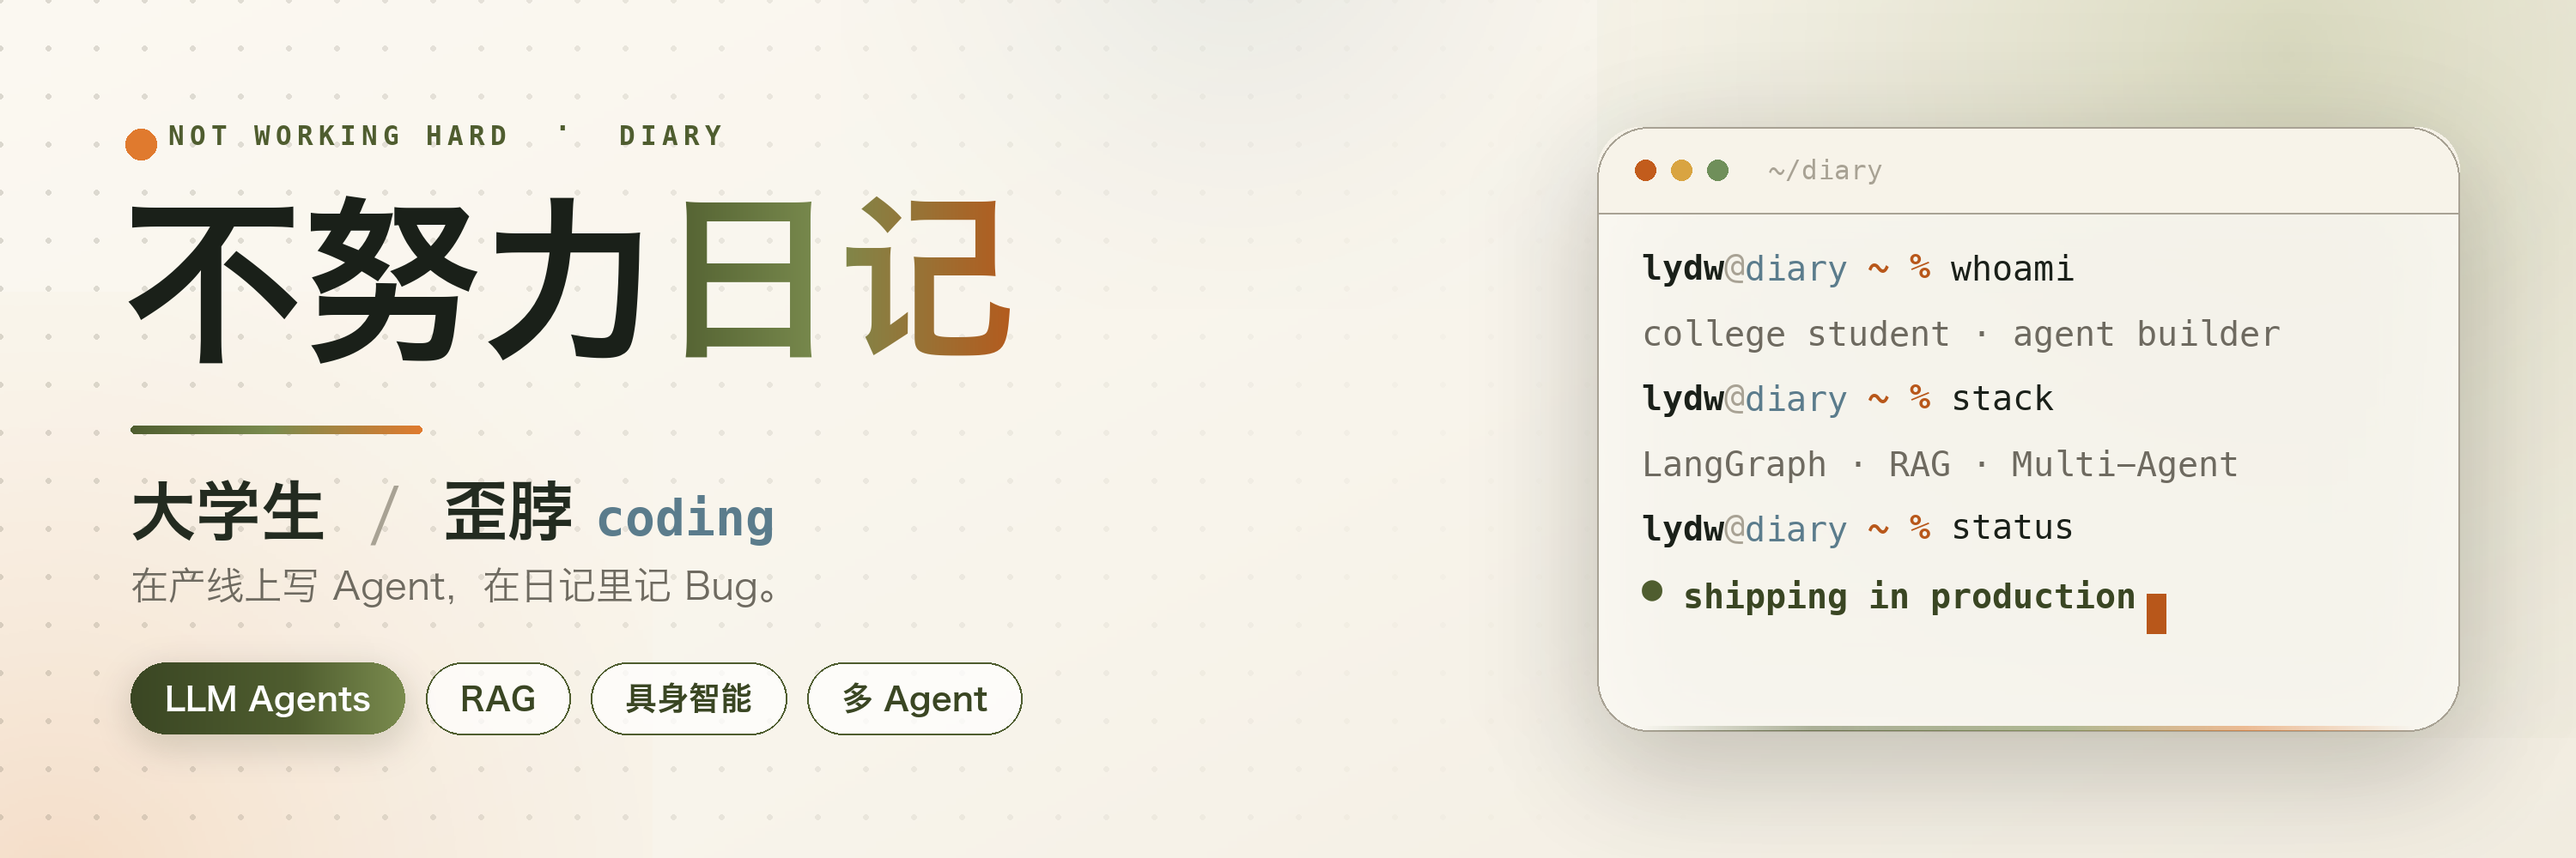
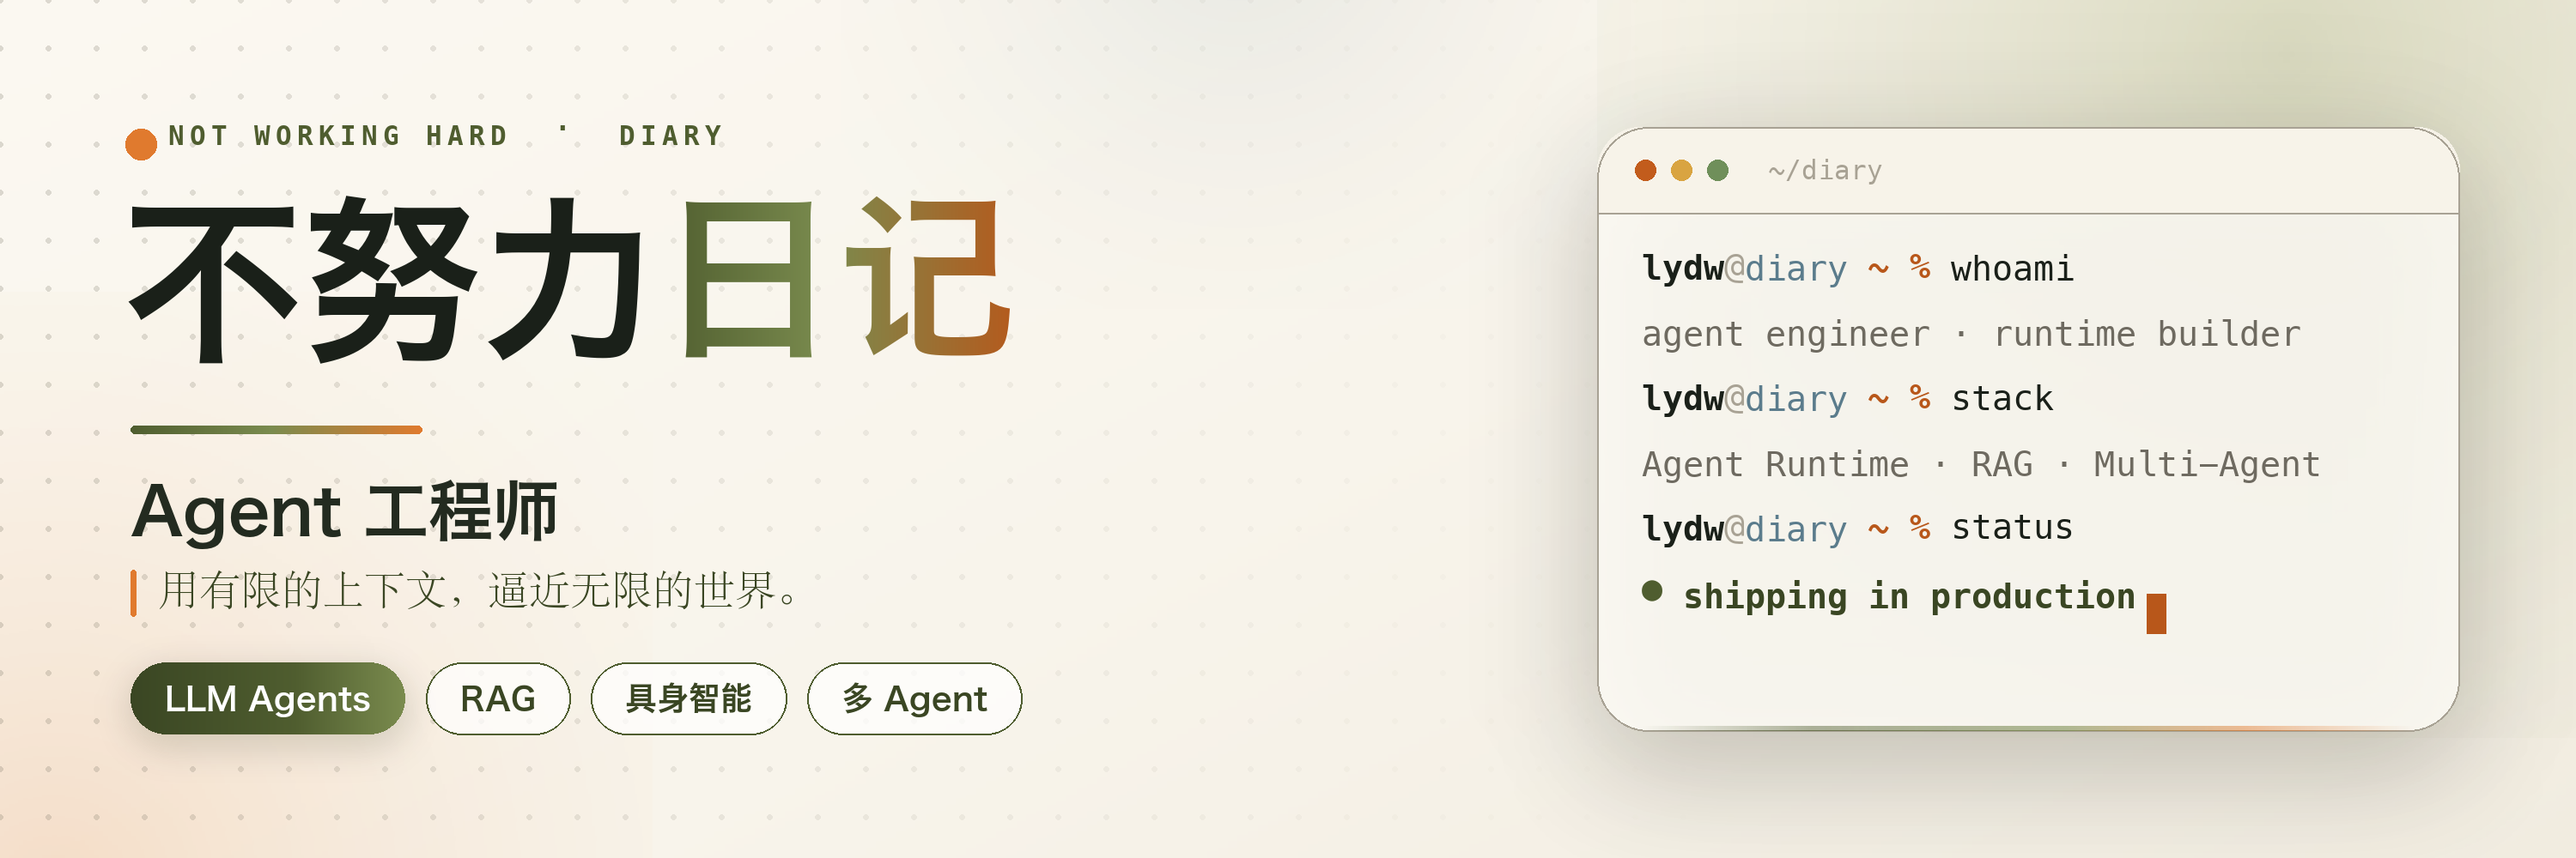
1

Changed region(s): [[0.031, 0.558, 0.31, 0.713], [0.62, 0.527, 0.899, 0.558], [0.62, 0.372, 0.899, 0.403]]

diff --git a/README.md b/README.md
@@ -1,21 +1,21 @@
 <div align="center">
-  <img src="./assets/banner.png" alt="不努力日记 · 大学生歪脖 coding" width="100%" />
+  <img src="./assets/banner.png" alt="不努力日记 · 用有限的上下文，逼近无限的世界" width="100%" />
 </div>
 
 <div align="center">
 
 ### 你好，我是不努力日记 👋
 
-大学生 · 歪脖 coding　|　在产线上写 Agent，在日记里记 Bug
+**Agent 工程师**　|　用有限的上下文，逼近无限的世界。
 
 </div>
 
-- 🔭 **现在在做**：生产级 LLM Agent / RAG / 多智能体编排
+- 🔭 **现在在做**：Agent Runtime · 长任务可靠性 · 多智能体编排
 - 🏭 **两段产线实战**：🤖 具身智能银行网点机器人（广电运通 GRG）× 🚗 商用车主动安全多 Agent 平台（魔视智能）
 - 🧠 **正在做**：LocalDev Agent · 三层上下文压缩 · Human-in-the-Loop
 - 📄 **一篇论文**：Diff-Ensemble，ACM CCF-A 在审
 
-我关心的是：**Agent 怎么在真实业务里稳定地跑起来**——上下文怎么压缩、工具怎么评测、流程怎么恢复、人在什么位置介入。
+我关心的是：**Agent 怎么在有限的上下文里，稳定地理解、行动与恢复**——上下文怎么压缩、工具怎么评测、流程怎么恢复、人在什么位置介入。
 
 > 不做 Demo 级 Agent，做能在产线上跑的 Agent。
 
@@ -23,23 +23,34 @@
 
 ## 🚀 精选项目
 
-<table>
+<table width="100%">
 <tr>
-<td width="50%" valign="top">
+<td valign="top">
 
-<h3>🤖 robot-agent-runtime-docs</h3>
+<h3>⭐ robot-agent-runtime-docs　<img src="https://img.shields.io/badge/Featured-E07A2E?style=flat-square" /></h3>
 
-<p>具身智能银行网点机器人的「大脑」：分层 Agent Runtime、Robot State 状态机与可回放的评测框架。</p>
+<p></b> 具身智能银行网点机器人的「大脑」：把 Agent 从「会聊天」拆成可替换、可观测、可评测的 Runtime。</p>
+
+<blockquote>
+<p><b>为什么是它：</b>把机器人大脑拆成可替换的 Runtime：编排、状态、工具、适配器、评测各自独立，目标是让它真正跑到网点里。</p>
+</blockquote>
 
 <p>
 <img src="https://img.shields.io/badge/LangGraph-4F5D2F?style=flat-square&logo=langgraph&logoColor=white" />
 <img src="https://img.shields.io/badge/RAG-4F5D2F?style=flat-square" />
 <img src="https://img.shields.io/badge/Robot%20State-1A2019?style=flat-square" />
+<img src="https://img.shields.io/badge/Agent%20Eval-1A2019?style=flat-square" />
+<img src="https://img.shields.io/badge/Multimodal-6E6A60?style=flat-square" />
 </p>
 
 <a href="https://github.com/liuyuelove/robot-agent-runtime-docs"><b>查看项目 →</b></a>
 
 </td>
+</tr>
+</table>
+
+<table width="100%">
+<tr>
 <td width="50%" valign="top">
 
 <h3>🚗 aftermarket-perception-agent</h3>
@@ -55,14 +66,11 @@
 <a href="https://github.com/liuyuelove/aftermarket-perception-agent"><b>查看项目 →</b></a>
 
 </td>
-</tr>
-</table>
+<td width="50%" valign="top">
 
 <h3>🧩 LocalDev Agent　<img src="https://img.shields.io/badge/Open%20Source-4F5D2F?style=flat-square&logo=github&logoColor=white" /></h3>
 
-> 面向长任务的多 Agent 协作框架：三层上下文压缩、DAG 持久化任务、异步协作协议与 Working/Idle 状态机，支持全链路可观测与断电恢复。
->
-> **一句话：Agent 跑得久，也跑得回来。**
+<p>面向长任务的多 Agent 协作框架：三层上下文压缩、DAG 持久化任务、异步协作协议与 Working/Idle 状态机，支持全链路可观测与断电恢复。</p>
 
 <p>
 <img src="https://img.shields.io/badge/Multi--Agent-4F5D2F?style=flat-square" />
@@ -71,7 +79,13 @@
 <img src="https://img.shields.io/badge/Observability-6E6A60?style=flat-square" />
 </p>
 
-<a href="https://github.com/liuyuelove/localdev_agent"><b>查看项目 →</b></a>　<sub>如果对你有帮助，欢迎 Star ⭐</sub>
+<p><b>一句话：Agent 跑得久，也跑得回来。</b></p>
+
+<a href="https://github.com/liuyuelove/localdev_agent"><b>查看项目 →</b></a>
+
+</td>
+</tr>
+</table>
 
 ---
 
@@ -113,6 +127,8 @@
 ---
 
 ## 🧰 技术栈
+
+> **当前重点**：Agent Runtime · 长任务可靠性 · 上下文压缩
 
 **Agent & LLM**
 
